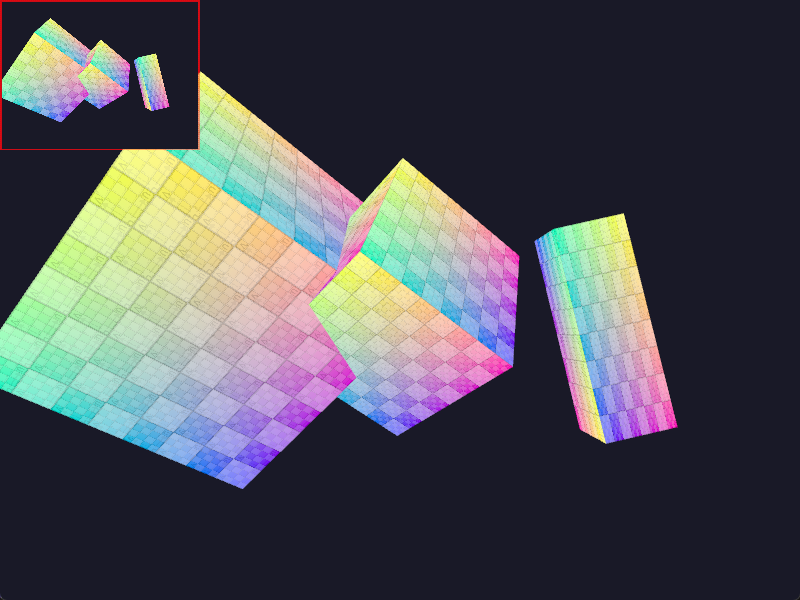
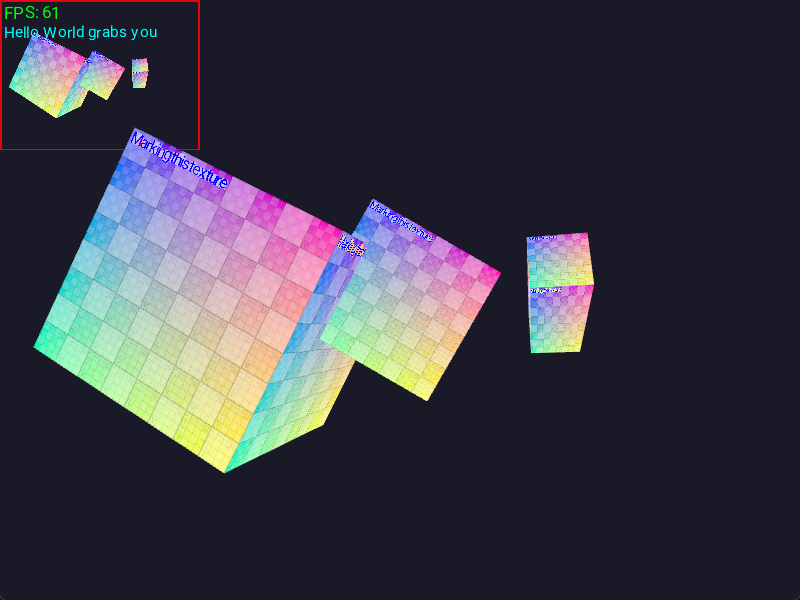
Added fix for stale text being re-rendered

diff --git a/src/app.rs b/src/app.rs
@@ -145,7 +145,6 @@ impl<'a> AppEventLoop<'a> {
   // update logic (synchronous with render loop)
   pub fn update(&mut self) {
     // logic updates
-
     self.camera.position[0] += self.input_cache.move_x as f32 * 5.0;
     self.camera.position[1] += self.input_cache.move_y as f32 * 5.0;
     self.camera.position[2] += self.input_cache.move_z as f32 * 5.0;
@@ -168,13 +167,17 @@ impl<'a> AppEventLoop<'a> {
     self.last_frame_time = self.new_frame_time;
     self.new_frame_time = time::Instant::now();
     let delta_t = self.new_frame_time - self.last_frame_time;
-    let printable_t = (1.0 / delta_t.as_secs_f32()) as u32;
-    // println!("delta t: {:?}", delta_t.as_secs_f32());
+    let fps = (1.0 / delta_t.as_secs_f32()) as u32;
+    let fps_txt = "FPS: ".to_owned() + &fps.to_string();
 
     self.renderer.set_clear_color(0.0, 0.0, 0.0, 0.0);
+    // render cubes onto texture
     self.renderer.render_texture(&[0], 1);
-    self.renderer.render_str_on_texture(2, &printable_t.to_string(), 30.0, [0, 255, 255], [5, 5]);
-    self.renderer.render_str_on_texture(2, "How are you?", 30.0, [0, 255, 0], [5, 35]);
+    // render text onto texture
+    self.renderer.render_texture(&[], 2); // clears texture background
+    self.renderer.render_str_on_texture(2, &fps_txt, 20.0, [0, 255, 0], [5, 5]);
+    self.renderer.render_str_on_texture(2, "Hello World grabs you", 18.0, [0, 255, 255], [5, 25]);
+    // render everything to screen
     self.renderer.set_clear_color(0.01, 0.01, 0.02, 1.0);
     match self.renderer.render(&[0, 1, 2]) {
       Ok(_) => Ok(()),

diff --git a/src/wgpu_text.rs b/src/wgpu_text.rs
@@ -123,23 +123,6 @@ pub fn draw_glyph_on_texture(queue: &Queue, texture: &mut Texture, glyph: RgbaIm
   Ok(())
 }
 
-// clear residual glyphs
-pub fn clear_prev_str(queue: &Queue, texture: &mut Texture, top_left: [u32; 2], bottom_right: [u32; 2]) {
-  let minx = top_left[0];
-  let miny = top_left[1];
-  let maxx = bottom_right[0] - top_left[0];
-  let maxy = bottom_right[1] - top_left[1];
-  let mut img = RgbaImage::new(maxx - minx, maxy - miny);
-
-  for x in minx..maxx {
-    for y in miny..maxy {
-      img.put_pixel(x, y, Rgba([0,0,0,0]));
-    }
-  }
-
-  todo!("need to wipe old data for new data to be clean")
-}
-
 // combines glyph functions to render full string
 pub fn draw_str(input: RStringInputs) -> Result<(), TextError> {
   // create individual glyph rasters

diff --git a/src/wgpu_root.rs b/src/wgpu_root.rs
@@ -790,7 +790,7 @@ impl<'a> Renderer<'a> {
     let target = tx.create_view(&TextureViewDescriptor::default());
     let zbuffer_view = self.zbuffer.create_view(&TextureViewDescriptor::default());
     let mut encoder = self.device.create_command_encoder(
-      &wgpu::CommandEncoderDescriptor { label: Some("render-encoder") }
+      &wgpu::CommandEncoderDescriptor { label: Some("render-texture-encoder") }
     );
     {
       // new context so ownership of encoder is released after pass finishes
@@ -848,7 +848,7 @@ impl<'a> Renderer<'a> {
       size,
       color,
       top_left,
-      char_gap: 3,
+      char_gap: 1,
     }) {
       Ok(()) => (),
       Err(e) => {
